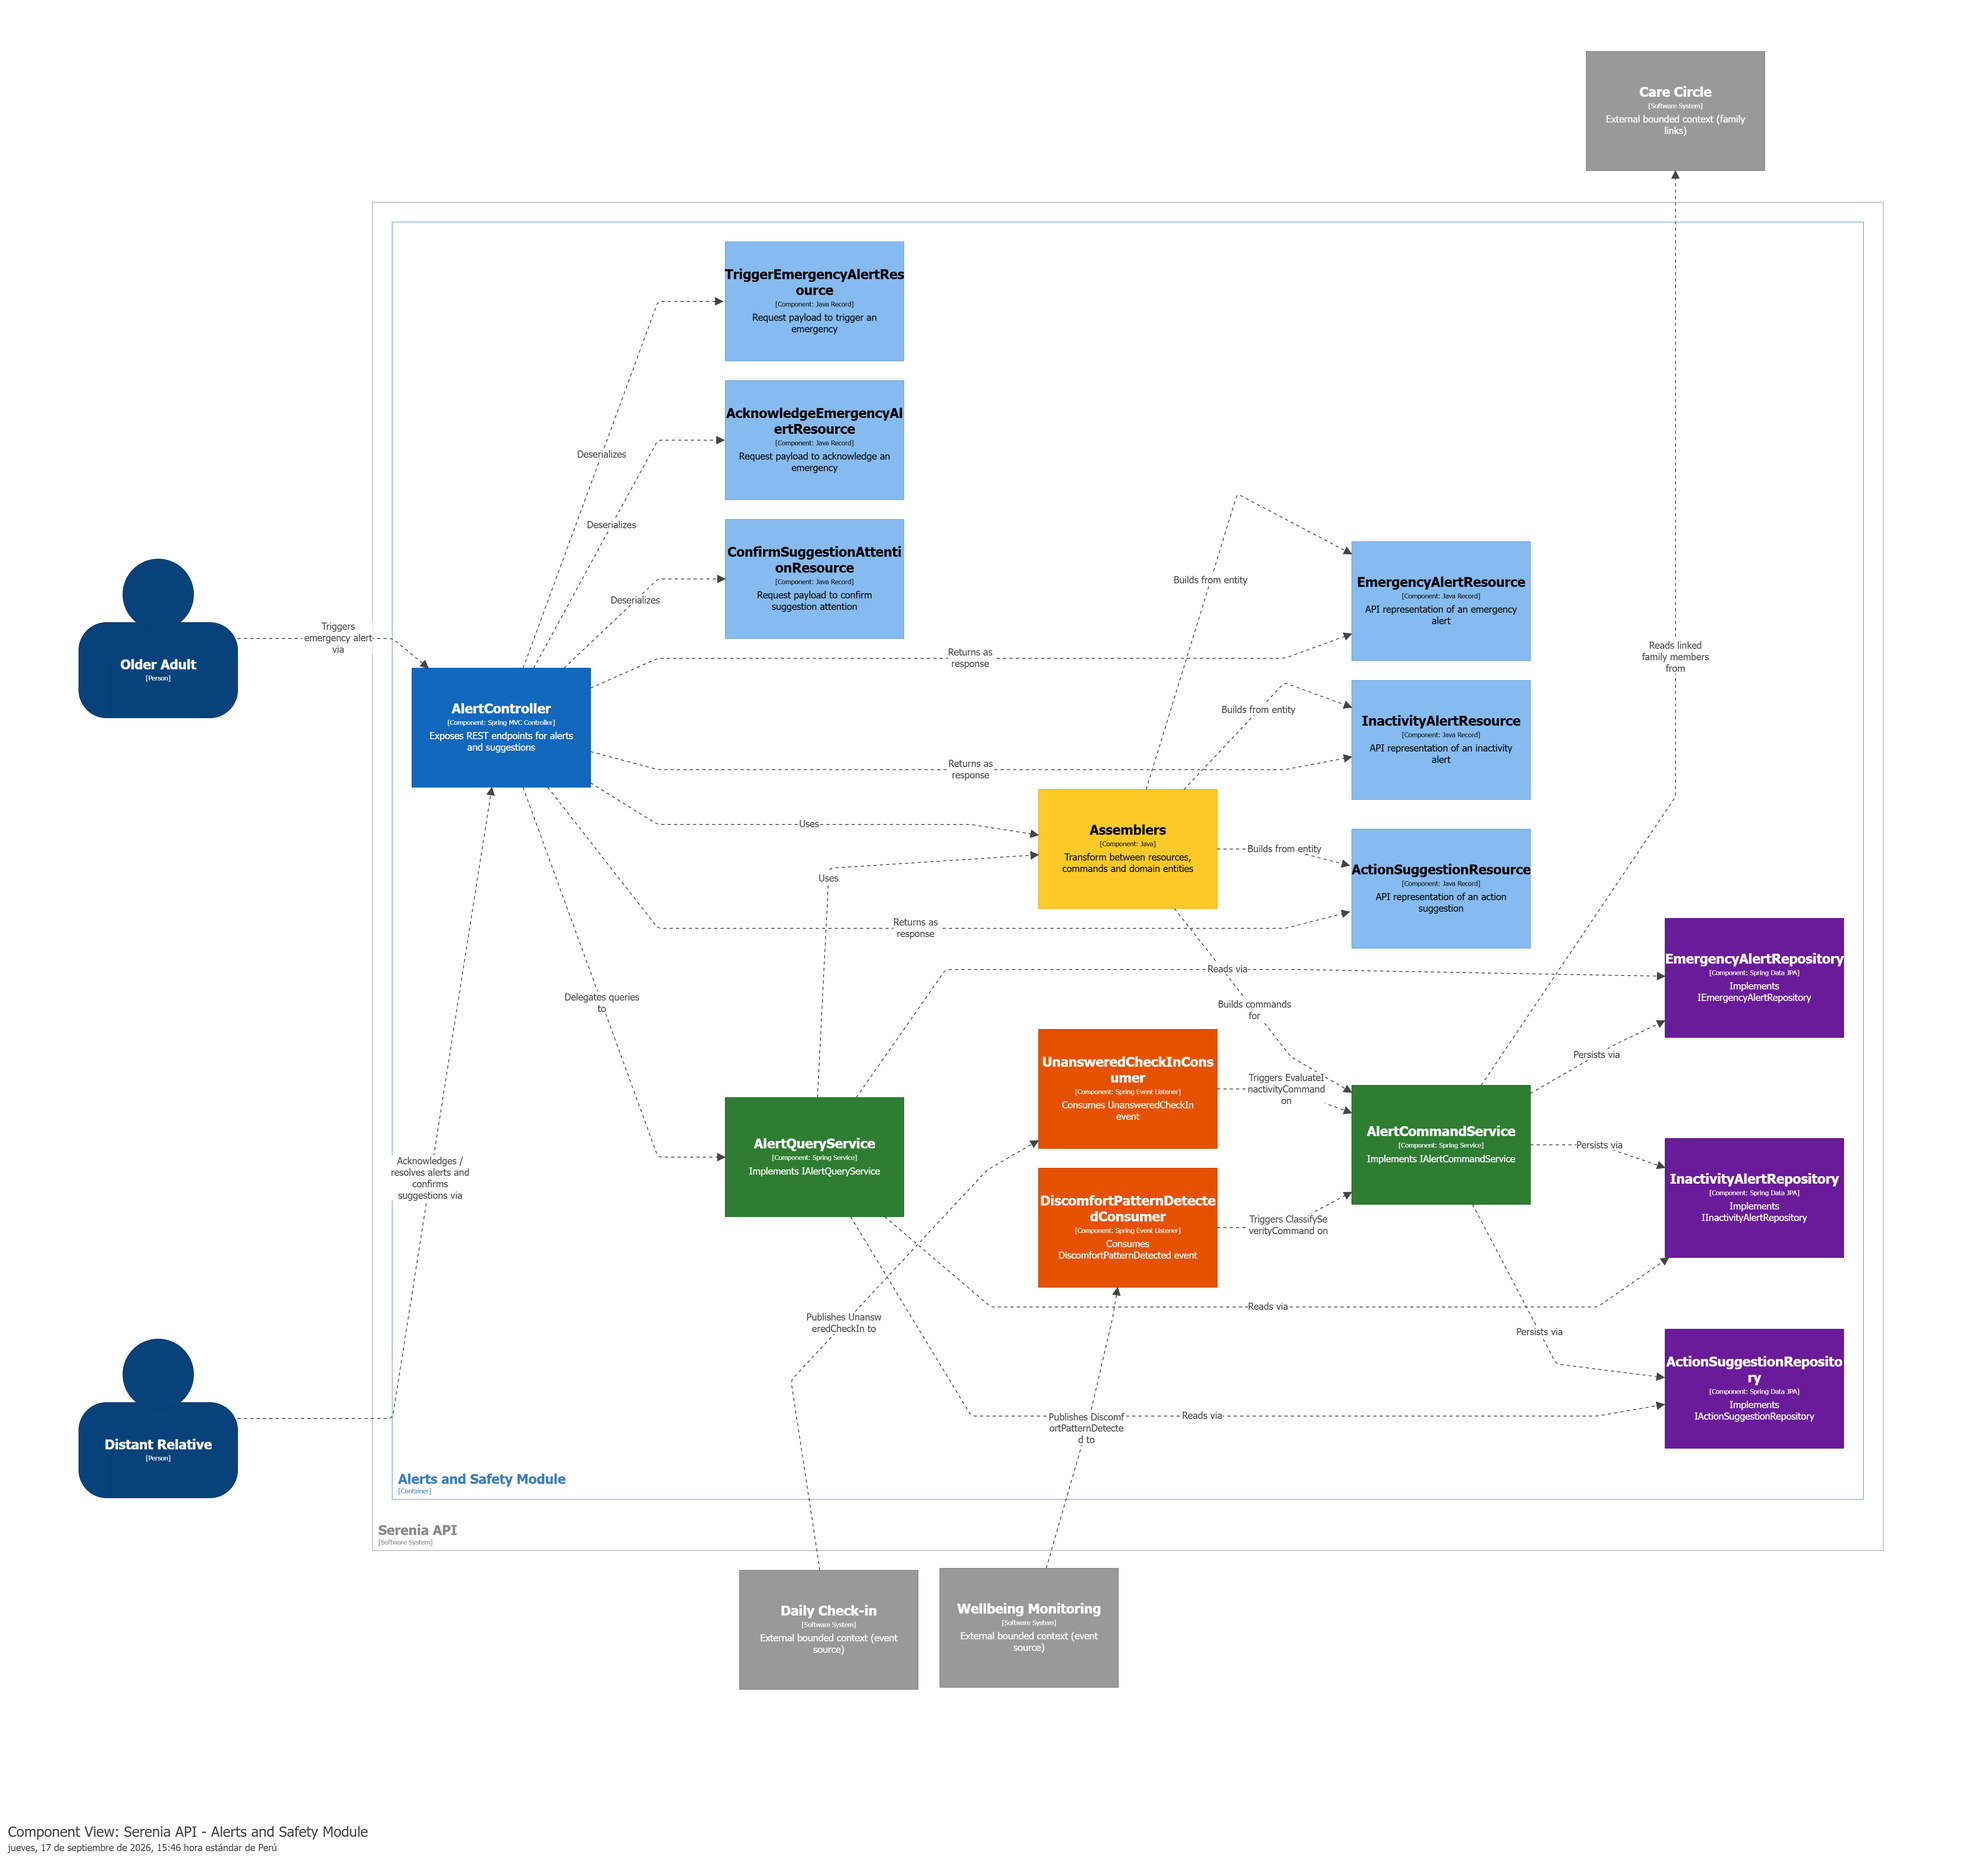
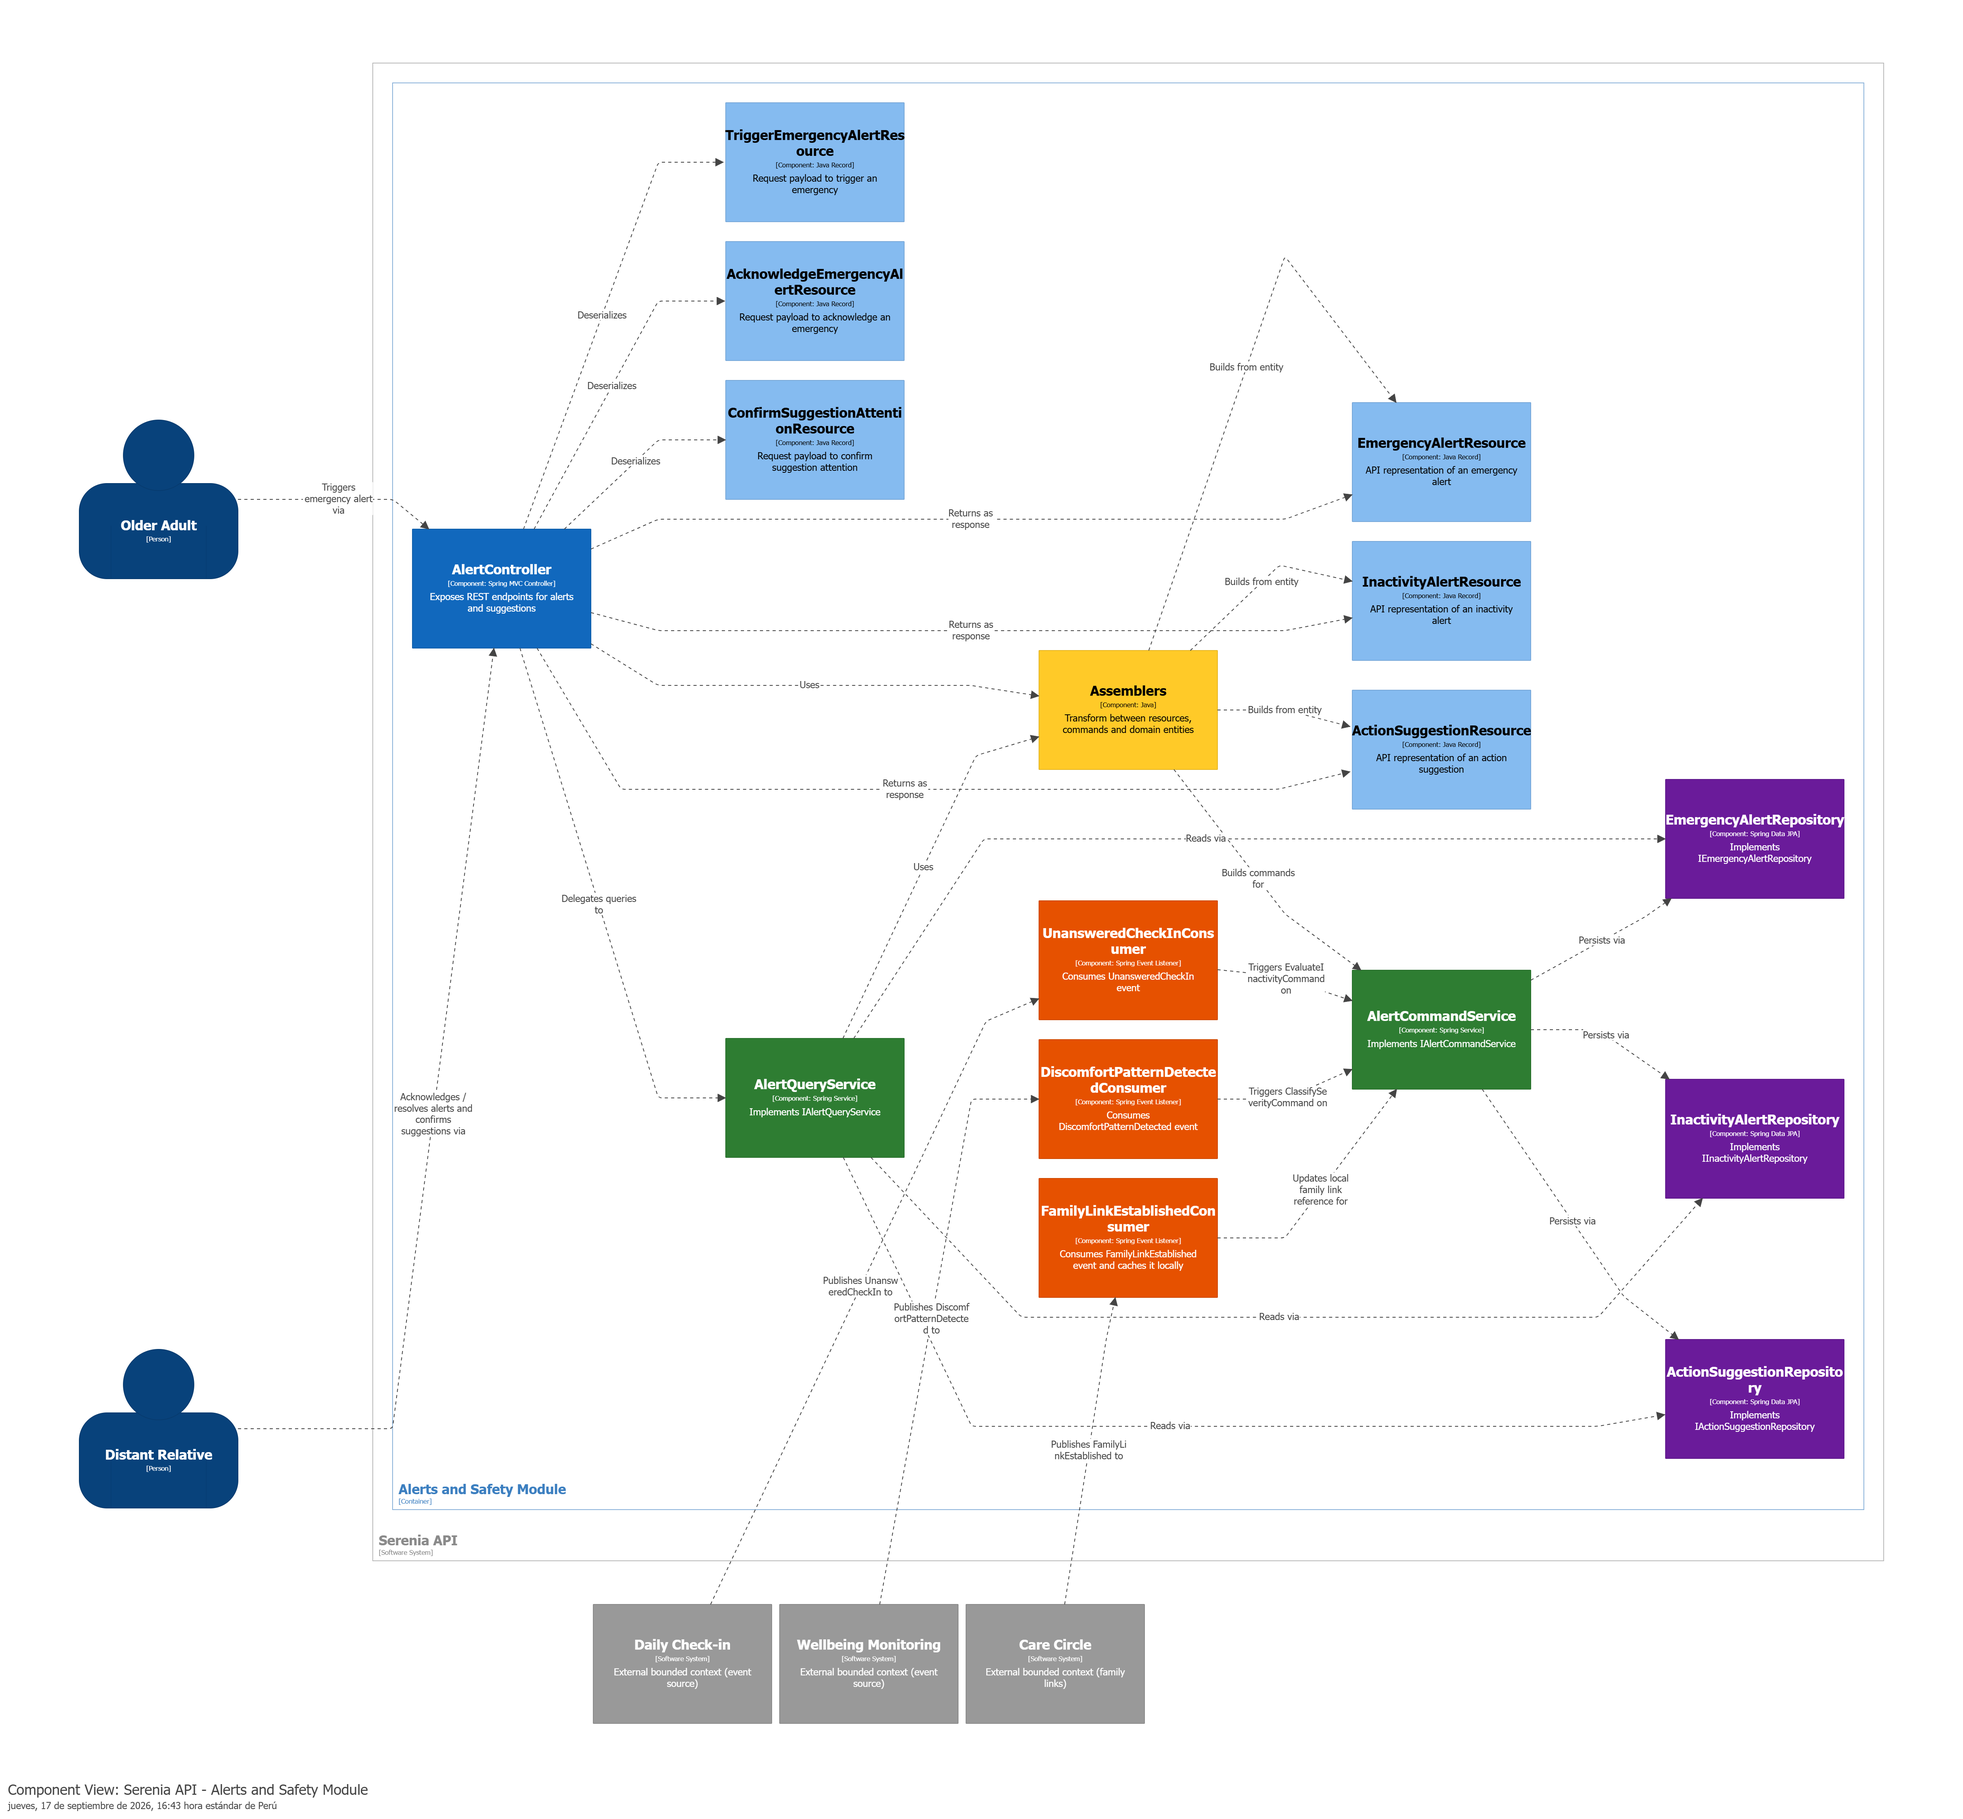
fix(feature/bounded-context-alerts-safety):align family link handling with the Bounded Context Canvas

diff --git a/README.md b/README.md
@@ -3839,6 +3839,7 @@ El bounded context **Alerts and Safety** es responsable de garantizar que el fam
 |---|---|---|---|---|
 | Consumer | UnansweredCheckInConsumer | Consumidor interno del evento de dominio UnansweredCheckIn | Escuchar, dentro del monolito modular, el evento publicado por el módulo Daily Check-in para desencadenar el `EvaluateInactivityCommand` correspondiente | Usado como puente entre el bounded context Daily Check-in y Alerts and Safety |
 | Consumer | DiscomfortPatternDetectedConsumer | Consumidor interno del evento de dominio DiscomfortPatternDetected | Escuchar, dentro del monolito modular, el evento publicado por el módulo Wellbeing Monitoring para desencadenar el `ClassifySeverityCommand` correspondiente | Usado como puente entre el bounded context Wellbeing Monitoring y Alerts and Safety |
+| Consumer | FamilyLinkEstablishedConsumer | Consumidor interno del evento de dominio FamilyLinkEstablished | Mantener localmente la referencia de familiares vinculados a cada adulto mayor, disponible por propagación desde Care Circle sin requerir consulta síncrona al momento de despachar una emergencia | Usado como puente entre el bounded context Care Circle y Alerts and Safety |
 
 <br>
 
@@ -3874,7 +3875,7 @@ El bounded context **Alerts and Safety** es responsable de garantizar que el fam
 
 #### 2.6.6.5. Bounded Context Software Architecture Component Level Diagrams
 
-En esta sección se presenta el Component Diagram de C4 Model correspondiente al bounded context Alerts and Safety, elaborado con la herramienta Structurizr. El diagrama muestra la descomposición interna del bounded context en sus clases principales, agrupadas según su rol dentro de la arquitectura: el `AlertController` como punto de entrada de las peticiones REST; los *Resources* (`EmergencyAlertResource`, `InactivityAlertResource`, `ActionSuggestionResource`, `TriggerEmergencyAlertResource`, `AcknowledgeEmergencyAlertResource`, `ConfirmSuggestionAttentionResource`) que estructuran los datos expuestos por la API; los *Assemblers*, encargados de transformar entre resources, commands y las entidades de dominio `EmergencyAlert`, `InactivityAlert` y `ActionSuggestion`; los *Commands* y *Queries* que representan las intenciones de escritura y lectura del bounded context; los servicios `AlertCommandService` y `AlertQueryService`, que implementan dichas operaciones e implementan a su vez las interfaces `IAlertCommandService` e `IAlertQueryService`; y finalmente `IEmergencyAlertRepository`, `IInactivityAlertRepository` e `IActionSuggestionRepository`, implementados por sus respectivos repositorios concretos, que gestionan la persistencia de los tres aggregates. Se incluye además `UnansweredCheckInConsumer` y `DiscomfortPatternDetectedConsumer`, componentes que escuchan los eventos `UnansweredCheckIn` (publicado por Daily Check-in) y `DiscomfortPatternDetected` (publicado por Wellbeing Monitoring), respectivamente, para desencadenar la evaluación de inactividad y la clasificación de severidad.
+En esta sección se presenta el Component Diagram de C4 Model correspondiente al bounded context Alerts and Safety, elaborado con la herramienta Structurizr. El diagrama muestra la descomposición interna del bounded context en sus clases principales, agrupadas según su rol dentro de la arquitectura: el `AlertController` como punto de entrada de las peticiones REST; los *Resources* (`EmergencyAlertResource`, `InactivityAlertResource`, `ActionSuggestionResource`, `TriggerEmergencyAlertResource`, `AcknowledgeEmergencyAlertResource`, `ConfirmSuggestionAttentionResource`) que estructuran los datos expuestos por la API; los *Assemblers*, encargados de transformar entre resources, commands y las entidades de dominio `EmergencyAlert`, `InactivityAlert` y `ActionSuggestion`; los *Commands* y *Queries* que representan las intenciones de escritura y lectura del bounded context; los servicios `AlertCommandService` y `AlertQueryService`, que implementan dichas operaciones e implementan a su vez las interfaces `IAlertCommandService` e `IAlertQueryService`; y finalmente `IEmergencyAlertRepository`, `IInactivityAlertRepository` e `IActionSuggestionRepository`, implementados por sus respectivos repositorios concretos, que gestionan la persistencia de los tres aggregates. Se incluye además `UnansweredCheckInConsumer`, `DiscomfortPatternDetectedConsumer` y `FamilyLinkEstablishedConsumer`, componentes que escuchan los eventos `UnansweredCheckIn` (publicado por Daily Check-in), `DiscomfortPatternDetected` (publicado por Wellbeing Monitoring) y `FamilyLinkEstablished` (publicado por Care Circle), respectivamente, para desencadenar la evaluación de inactividad, la clasificación de severidad y el mantenimiento local de la referencia de familiares vinculados, esta última sin requerir consulta síncrona a Care Circle al momento de despachar una emergencia.
 
 <br>
 
